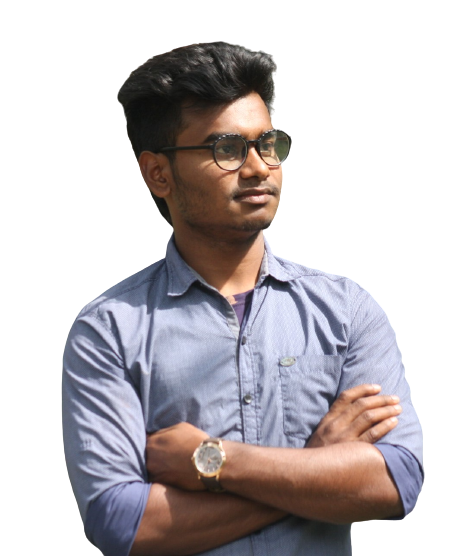
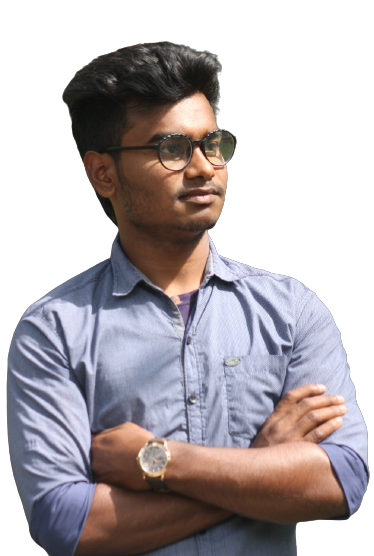
done

diff --git a/style.css b/style.css
@@ -390,7 +390,7 @@ nav .fa-solid {
 
 @media only screen and (max-width: 400px) {
     #header {
-        background-image: url(image/IMG2_2533.JPG);
+        background-image: url(image/top.png);
     }
 
     .header-text {
